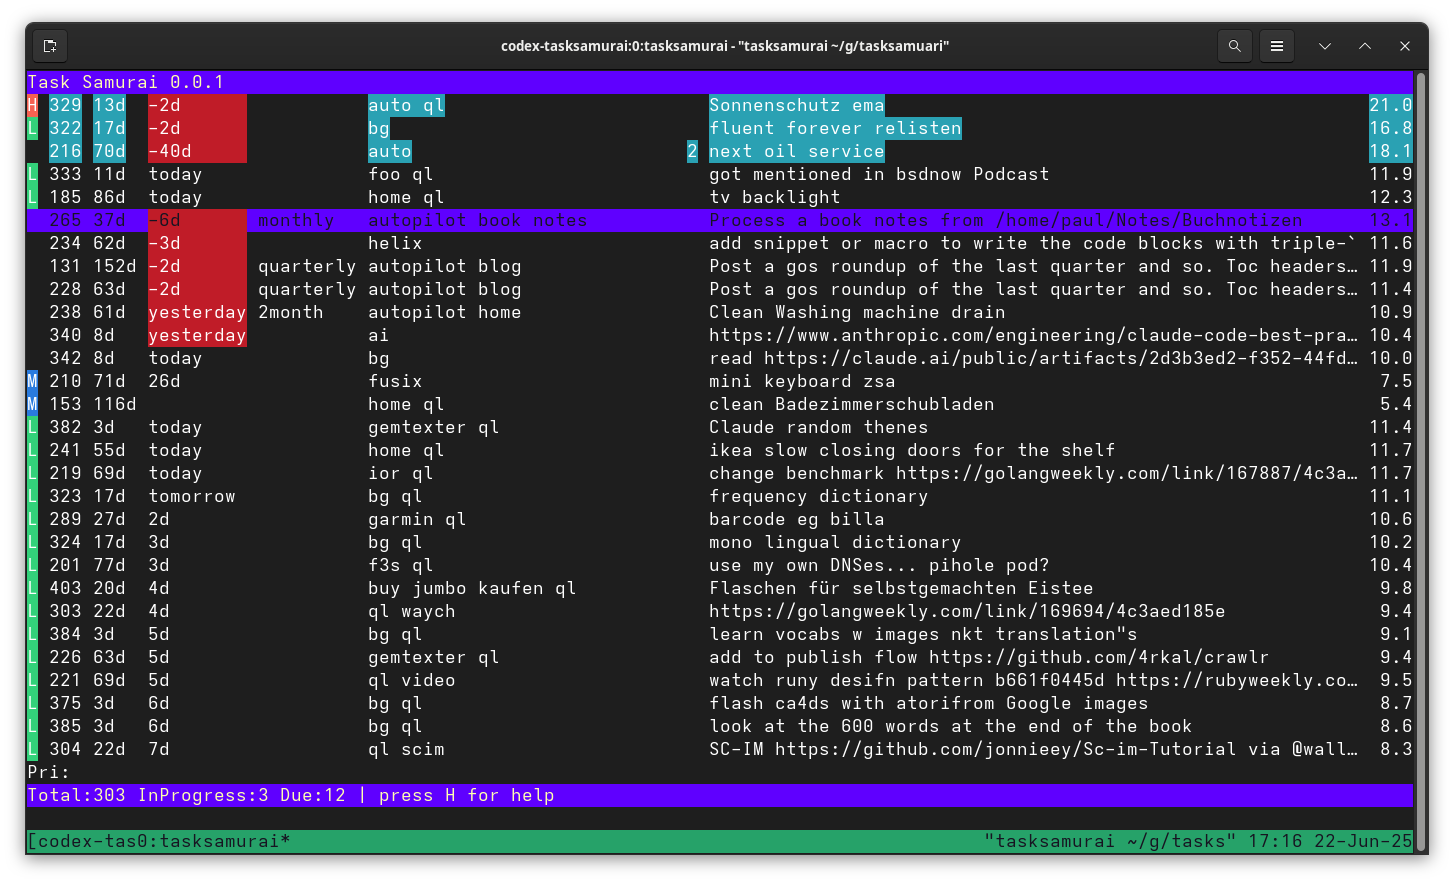
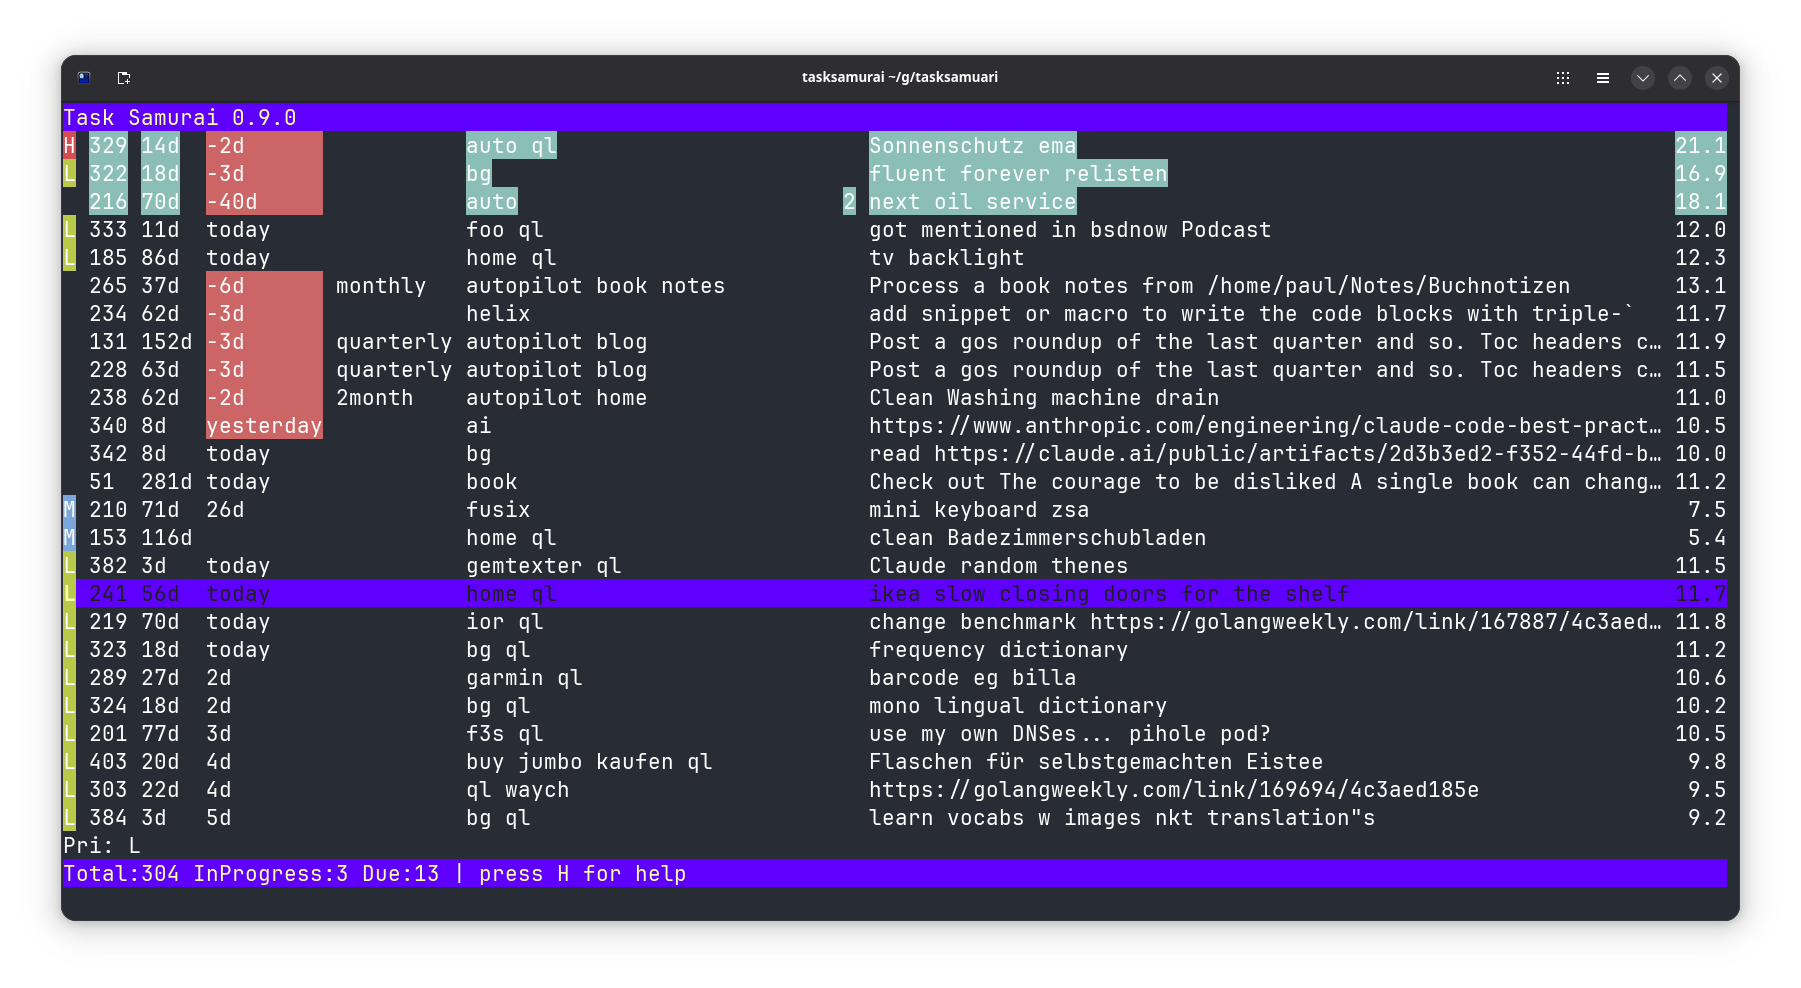
Update content for html

diff --git a/about/resources.html b/about/resources.html
@@ -50,52 +50,52 @@
 <span>In random order:</span><br />
 <br />
 <ul>
-<li>The Practise of System and Network Administration; Thomas A. Limoncelli, Christina J. Hogan, Strata R. Chalup; Addison-Wesley Professional Pro Git; Scott Chacon, Ben Straub; Apress</li>
-<li>The Docker Book; James Turnbull; Kindle</li>
-<li>21st Century C: C Tips from the New School; Ben Klemens; O&#39;Reilly</li>
-<li>Concurrency in Go; Katherine Cox-Buday; O&#39;Reilly</li>
-<li>The Kubernetes Book; Nigel Poulton; Unabridged Audiobook</li>
-<li>Raku Recipes; J.J. Merelo; Apress</li>
-<li>Programming Ruby 3.3 (5th Edition); Noel Rappin, with Dave Thomas; The Pragmatic Bookshelf</li>
-<li>DNS and BIND; Cricket Liu; O&#39;Reilly</li>
-<li>Raku Fundamentals; Moritz Lenz; Apress</li>
-<li>Terraform Cookbook; Mikael Krief; Packt Publishing</li>
-<li>Learn You Some Erlang for Great Good; Fred Herbert; No Starch Press</li>
-<li>The Go Programming Language; Alan A. A. Donovan; Addison-Wesley Professional</li>
-<li>Effective Java; Joshua Bloch; Addison-Wesley Professional</li>
-<li>DevOps And Site Reliability Engineering Handbook; Stephen Fleming; Audible</li>
+<li>Go Brain Teasers - Exercise Your Mind; Miki Tebeka; The Pragmatic Programmers</li>
 <li>Clusterbau mit Linux-HA; Michael Schwartzkopff; O&#39;Reilly</li>
 <li>Think Raku (aka Think Perl 6); Laurent Rosenfeld, Allen B. Downey; O&#39;Reilly</li>
-<li>Funktionale Programmierung; Peter Pepper; Springer</li>
-<li>Java ist auch eine Insel; Christian Ullenboom; </li>
-<li>Amazon Web Services in Action; Michael Wittig and Andreas Wittig; Manning Publications</li>
 <li>Higher Order Perl; Mark Dominus; Morgan Kaufmann</li>
-<li>100 Go Mistakes and How to Avoid Them; Teiva Harsanyi; Manning Publications</li>
-<li>Tmux 2: Productive Mouse-free Development; Brain P. Hogan; The Pragmatic Programmers </li>
-<li>Modern Perl; Chromatic ; Onyx Neon Press</li>
-<li>Object-Oriented Programming with ANSI-C; Axel-Tobias Schreiner</li>
 <li>Leanring eBPF; Liz Rice; O&#39;Reilly</li>
-<li>Programming Perl aka "The Camel Book"; Tom Christiansen, brian d foy, Larry Wall &amp; Jon Orwant; O&#39;Reilly</li>
-<li>Hands-on Infrastructure Monitoring with Prometheus; Joel Bastos, Pedro Araujo; Packt </li>
-<li>Site Reliability Engineering; How Google runs production systems; O&#39;Reilly</li>
-<li>The Pragmatic Programmer; David Thomas; Addison-Wesley</li>
-<li>The KCNA (Kubernetes and Cloud Native Associate) Book; Nigel Poulton</li>
-<li>Data Science at the Command Line; Jeroen Janssens; O&#39;Reilly</li>
-<li>Pro Puppet; James Turnbull, Jeffrey McCune; Apress</li>
-<li>Developing Games in Java; David Brackeen and others...; New Riders</li>
-<li>Distributed Systems: Principles and Paradigms; Andrew S. Tanenbaum; Pearson</li>
-<li>Polished Ruby Programming; Jeremy Evans; Packt Publishing</li>
-<li>C++ Programming Language; Bjarne Stroustrup;</li>
-<li>Kubernetes Cookbook; Sameer Naik, Sébastien Goasguen, Jonathan Michaux; O&#39;Reilly</li>
-<li>Go Brain Teasers - Exercise Your Mind; Miki Tebeka; The Pragmatic Programmers</li>
-<li>Effective awk programming; Arnold Robbins; O&#39;Reilly</li>
+<li>21st Century C: C Tips from the New School; Ben Klemens; O&#39;Reilly</li>
 <li>97 things every SRE should know; Emil Stolarsky, Jaime Woo; O&#39;Reilly</li>
-<li>Learn You a Haskell for Great Good!; Miran Lipovaca; No Starch Press</li>
+<li>The Practise of System and Network Administration; Thomas A. Limoncelli, Christina J. Hogan, Strata R. Chalup; Addison-Wesley Professional Pro Git; Scott Chacon, Ben Straub; Apress</li>
+<li>The Pragmatic Programmer; David Thomas; Addison-Wesley</li>
+<li>Distributed Systems: Principles and Paradigms; Andrew S. Tanenbaum; Pearson</li>
+<li>Amazon Web Services in Action; Michael Wittig and Andreas Wittig; Manning Publications</li>
+<li>Tmux 2: Productive Mouse-free Development; Brain P. Hogan; The Pragmatic Programmers </li>
+<li>Data Science at the Command Line; Jeroen Janssens; O&#39;Reilly</li>
+<li>Raku Recipes; J.J. Merelo; Apress</li>
 <li>The DevOps Handbook; Gene Kim, Jez Humble, Patrick Debois, John Willis; Audible</li>
-<li>Systems Performance Tuning; Gian-Paolo D. Musumeci and others...; O&#39;Reilly</li>
-<li>Systemprogrammierung in Go; Frank Müller; dpunkt</li>
+<li>Effective awk programming; Arnold Robbins; O&#39;Reilly</li>
+<li>Site Reliability Engineering; How Google runs production systems; O&#39;Reilly</li>
+<li>The KCNA (Kubernetes and Cloud Native Associate) Book; Nigel Poulton</li>
 <li>Ultimate Go Notebook; Bill Kennedy</li>
+<li>Funktionale Programmierung; Peter Pepper; Springer</li>
+<li>Raku Fundamentals; Moritz Lenz; Apress</li>
+<li>Modern Perl; Chromatic ; Onyx Neon Press</li>
+<li>Pro Puppet; James Turnbull, Jeffrey McCune; Apress</li>
+<li>Learn You Some Erlang for Great Good; Fred Herbert; No Starch Press</li>
+<li>Developing Games in Java; David Brackeen and others...; New Riders</li>
+<li>Systems Performance Tuning; Gian-Paolo D. Musumeci and others...; O&#39;Reilly</li>
+<li>The Docker Book; James Turnbull; Kindle</li>
+<li>Learn You a Haskell for Great Good!; Miran Lipovaca; No Starch Press</li>
+<li>Programming Ruby 3.3 (5th Edition); Noel Rappin, with Dave Thomas; The Pragmatic Bookshelf</li>
+<li>Polished Ruby Programming; Jeremy Evans; Packt Publishing</li>
+<li>Effective Java; Joshua Bloch; Addison-Wesley Professional</li>
+<li>Concurrency in Go; Katherine Cox-Buday; O&#39;Reilly</li>
+<li>100 Go Mistakes and How to Avoid Them; Teiva Harsanyi; Manning Publications</li>
+<li>DNS and BIND; Cricket Liu; O&#39;Reilly</li>
+<li>Hands-on Infrastructure Monitoring with Prometheus; Joel Bastos, Pedro Araujo; Packt </li>
+<li>Java ist auch eine Insel; Christian Ullenboom; </li>
+<li>DevOps And Site Reliability Engineering Handbook; Stephen Fleming; Audible</li>
+<li>The Go Programming Language; Alan A. A. Donovan; Addison-Wesley Professional</li>
+<li>Systemprogrammierung in Go; Frank Müller; dpunkt</li>
 <li>Perl New Features; Joshua McAdams, brian d foy; Perl School</li>
+<li>Programming Perl aka "The Camel Book"; Tom Christiansen, brian d foy, Larry Wall &amp; Jon Orwant; O&#39;Reilly</li>
+<li>Object-Oriented Programming with ANSI-C; Axel-Tobias Schreiner</li>
+<li>The Kubernetes Book; Nigel Poulton; Unabridged Audiobook</li>
+<li>C++ Programming Language; Bjarne Stroustrup;</li>
+<li>Terraform Cookbook; Mikael Krief; Packt Publishing</li>
+<li>Kubernetes Cookbook; Sameer Naik, Sébastien Goasguen, Jonathan Michaux; O&#39;Reilly</li>
 </ul><br />
 <h2 style='display: inline' id='technical-references'>Technical references</h2><br />
 <br />
@@ -103,54 +103,54 @@
 <br />
 <ul>
 <li>Go: Design Patterns for Real-World Projects; Mat Ryer; Packt</li>
+<li>Implementing Service Level Objectives; Alex Hidalgo; O&#39;Reilly</li>
 <li>Groovy Kurz &amp; Gut; Joerg Staudemeier; O&#39;Reilly</li>
-<li>BPF Performance Tools - Linux System and Application Observability, Brendan Gregg; Addison Wesley</li>
+<li>Relayd and Httpd Mastery; Michael W Lucas</li>
 <li>Algorithms; Robert Sedgewick, Kevin Wayne; Addison Wesley</li>
 <li>Understanding the Linux Kernel; Daniel P. Bovet, Marco Cesati; O&#39;Reilly</li>
-<li>Implementing Service Level Objectives; Alex Hidalgo; O&#39;Reilly</li>
 <li>The Linux Programming Interface; Michael Kerrisk; No Starch Press </li>
-<li>Relayd and Httpd Mastery; Michael W Lucas</li>
+<li>BPF Performance Tools - Linux System and Application Observability, Brendan Gregg; Addison Wesley</li>
 </ul><br />
 <h2 style='display: inline' id='self-development-and-soft-skills-books'>Self-development and soft-skills books</h2><br />
 <br />
 <span>In random order:</span><br />
 <br />
 <ul>
-<li>The Good Enough Job; Simone Stolzoff; Ebury Edge</li>
+<li>Digital Minimalism; Cal Newport; Portofolio Penguin</li>
+<li>Staff Engineer: Leadership beyond the management track; Will Larson; Audiobook</li>
+<li>Ultralearning; Scott Young; Thorsons</li>
+<li>The Joy of Missing Out; Christina Crook; New Society Publishers</li>
 <li>The Phoenix Project - A Novel About IT, DevOps, and Helping your Business Win; Gene Kim and Kevin Behr; Trade Select</li>
-<li>Slow Productivity; Cal Newport; Penguin Random House</li>
-<li>The Obstacle Is The Way; Ryan Holiday; Profile Books Ltd</li>
-<li>The Bullet Journal Method; Ryder Carroll; Fourth Estate</li>
-<li>Buddah and Einstein walk into a Bar; Guy Joseph Ale, Claire Bloom; Blackstone Publishing</li>
-<li>Atomic Habits; James Clear; Random House Business</li>
-<li>The Power of Now; Eckhard Tolle; Yellow Kite</li>
-<li>The Complete Software Developer&#39;s Career Guide; John Sonmez; Unabridged Audiobook</li>
-<li>The Daily Stoic; Ryan Holiday, Stephen Hanselman; Profile Books</li>
-<li>Deep Work; Cal Newport; Piatkus</li>
-<li>Eat That Frog; Brian Tracy</li>
-<li>Soft Skills; John Sommez; Manning Publications</li>
-<li>So Good They Can&#39;t Ignore You; Cal Newport; Business Plus</li>
-<li>Psycho-Cybernetics; Maxwell Maltz; Perigee Books</li>
-<li>Time Management for System Administrators; Thomas A. Limoncelli; O&#39;Reilly</li>
-<li>Never Split the Difference; Chris Voss, Tahl Raz; Random House Business</li>
 <li>Coders at Work - Reflections on the craft of programming, Peter Seibel and Mitchell Dorian et al., Audiobook</li>
-<li>Consciousness: A Very Short Introduction; Susan Blackmore; Oxford Uiversity Press</li>
-<li>Ultralearning; Anna Laurent; Self-published via Amazon</li>
-<li>The 7 Habits Of Highly Effective People; Stephen R. Covey; Simon &amp; Schuster UK</li>
+<li>So Good They Can&#39;t Ignore You; Cal Newport; Business Plus</li>
+<li>101 Essays that change the way you think; Brianna Wiest; Audiobook</li>
+<li>Search Inside Yourself - The Unexpected path to Achieving Success, Happiness (and World Peace); Chade-Meng Tan, Daniel Goleman, Jon Kabat-Zinn; HarperOne</li>
+<li>The Complete Software Developer&#39;s Career Guide; John Sonmez; Unabridged Audiobook</li>
+<li>Eat That Frog; Brian Tracy</li>
+<li>The Good Enough Job; Simone Stolzoff; Ebury Edge</li>
+<li>Deep Work; Cal Newport; Piatkus</li>
+<li>The Obstacle Is The Way; Ryan Holiday; Profile Books Ltd</li>
 <li>Who Moved My Cheese?; Dr. Spencer Johnson; Vermilion</li>
 <li>The Off Switch; Mark Cropley; Virgin Books (RE-READ 1ST TIME)</li>
-<li>The Joy of Missing Out; Christina Crook; New Society Publishers</li>
-<li>Eat That Frog!; Brian Tracy; Hodder Paperbacks</li>
-<li>Getting Things Done; David Allen</li>
-<li>Meditation for Mortals, Oliver Burkeman, Audiobook</li>
-<li>Staff Engineer: Leadership beyond the management track; Will Larson; Audiobook</li>
+<li>Consciousness: A Very Short Introduction; Susan Blackmore; Oxford Uiversity Press</li>
 <li>Influence without Authority; A. Cohen, D. Bradford; Wiley</li>
-<li>101 Essays that change the way you think; Brianna Wiest; Audiobook</li>
-<li>Solve for Happy; Mo Gawdat (RE-READ 1ST TIME)</li>
+<li>Meditation for Mortals, Oliver Burkeman, Audiobook</li>
+<li>Time Management for System Administrators; Thomas A. Limoncelli; O&#39;Reilly</li>
 <li>Stop starting, start finishing; Arne Roock; Lean-Kanban University  </li>
-<li>Digital Minimalism; Cal Newport; Portofolio Penguin</li>
-<li>Ultralearning; Scott Young; Thorsons</li>
-<li>Search Inside Yourself - The Unexpected path to Achieving Success, Happiness (and World Peace); Chade-Meng Tan, Daniel Goleman, Jon Kabat-Zinn; HarperOne</li>
+<li>Eat That Frog!; Brian Tracy; Hodder Paperbacks</li>
+<li>The 7 Habits Of Highly Effective People; Stephen R. Covey; Simon &amp; Schuster UK</li>
+<li>The Daily Stoic; Ryan Holiday, Stephen Hanselman; Profile Books</li>
+<li>Never Split the Difference; Chris Voss, Tahl Raz; Random House Business</li>
+<li>Getting Things Done; David Allen</li>
+<li>Solve for Happy; Mo Gawdat (RE-READ 1ST TIME)</li>
+<li>The Power of Now; Eckhard Tolle; Yellow Kite</li>
+<li>Atomic Habits; James Clear; Random House Business</li>
+<li>Ultralearning; Anna Laurent; Self-published via Amazon</li>
+<li>The Bullet Journal Method; Ryder Carroll; Fourth Estate</li>
+<li>Psycho-Cybernetics; Maxwell Maltz; Perigee Books</li>
+<li>Soft Skills; John Sommez; Manning Publications</li>
+<li>Slow Productivity; Cal Newport; Penguin Random House</li>
+<li>Buddah and Einstein walk into a Bar; Guy Joseph Ale, Claire Bloom; Blackstone Publishing</li>
 </ul><br />
 <a class='textlink' href='../notes/index.html'>Here are notes of mine for some of the books</a><br />
 <br />
@@ -159,31 +159,31 @@
 <span>Some of these were in-person with exams; others were online learning lectures only. In random order:</span><br />
 <br />
 <ul>
-<li>The Well-Grounded Rubyist Video Edition; David. A. Black; O&#39;Reilly Online</li>
 <li>Developing IaC with Terraform (with Live Lessons); O&#39;Reilly Online</li>
 <li>Algorithms Video Lectures; Robert Sedgewick; O&#39;Reilly Online</li>
-<li>Red Hat Certified System Administrator; Course + certification (Although I had the option, I decided not to take the next course as it is more effective to self learn what I need)</li>
-<li>MySQL Deep Dive Workshop; 2-day on-site training</li>
-<li>F5 Loadbalancers Training; 2-day on-site training; F5, Inc. </li>
 <li>Protocol buffers; O&#39;Reilly Online</li>
-<li>AWS Immersion Day; Amazon; 1-day interactive online training </li>
-<li>Functional programming lecture; Remote University of Hagen</li>
-<li>Apache Tomcat Best Practises; 3-day on-site training</li>
-<li>Linux Security and Isolation APIs Training; Michael Kerrisk; 3-day on-site training</li>
-<li>The Ultimate Kubernetes Bootcamp; School of Devops; O&#39;Reilly Online</li>
-<li>Scripting Vim; Damian Conway; O&#39;Reilly Online</li>
+<li>F5 Loadbalancers Training; 2-day on-site training; F5, Inc. </li>
 <li>Structure and Interpretation of Computer Programs; Harold Abelson and more...; </li>
-<li>Cloud Operations on AWS - Learn how to configure, deploy, maintain, and troubleshoot your AWS environments; 3-day online live training with labs; Amazon</li>
+<li>MySQL Deep Dive Workshop; 2-day on-site training</li>
+<li>Red Hat Certified System Administrator; Course + certification (Although I had the option, I decided not to take the next course as it is more effective to self learn what I need)</li>
+<li>AWS Immersion Day; Amazon; 1-day interactive online training </li>
+<li>The Well-Grounded Rubyist Video Edition; David. A. Black; O&#39;Reilly Online</li>
+<li>Apache Tomcat Best Practises; 3-day on-site training</li>
+<li>Functional programming lecture; Remote University of Hagen</li>
 <li>Ultimate Go Programming; Bill Kennedy; O&#39;Reilly Online</li>
+<li>Linux Security and Isolation APIs Training; Michael Kerrisk; 3-day on-site training</li>
+<li>Scripting Vim; Damian Conway; O&#39;Reilly Online</li>
+<li>The Ultimate Kubernetes Bootcamp; School of Devops; O&#39;Reilly Online</li>
+<li>Cloud Operations on AWS - Learn how to configure, deploy, maintain, and troubleshoot your AWS environments; 3-day online live training with labs; Amazon</li>
 </ul><br />
 <h2 style='display: inline' id='technical-guides'>Technical guides</h2><br />
 <br />
 <span>These are not whole books, but guides (smaller or larger) which I found very useful. in random order:</span><br />
 <br />
 <ul>
+<li>How CPUs work at https://cpu.land</li>
 <li>Raku Guide at https://raku.guide  </li>
 <li>Advanced Bash-Scripting Guide </li>
-<li>How CPUs work at https://cpu.land</li>
 </ul><br />
 <h2 style='display: inline' id='podcasts'>Podcasts</h2><br />
 <br />
@@ -192,58 +192,58 @@
 <span>In random order:</span><br />
 <br />
 <ul>
-<li>Modern Mentor</li>
-<li>Hidden Brain</li>
-<li>Backend Banter</li>
-<li>Dev Interrupted</li>
-<li>Maintainable</li>
-<li>The Changelog Podcast(s)</li>
-<li>The Pragmatic Engineer Podcast</li>
-<li>Fallthrough [Golang]</li>
-<li>The ProdCast (Google SRE Podcast)</li>
-<li>Fork Around And Find Out</li>
 <li>Deep Questions with Cal Newport</li>
 <li>Cup o&#39; Go [Golang]</li>
+<li>Fork Around And Find Out</li>
 <li>BSD Now [BSD]</li>
+<li>The Changelog Podcast(s)</li>
+<li>Hidden Brain</li>
+<li>Dev Interrupted</li>
+<li>Maintainable</li>
+<li>The ProdCast (Google SRE Podcast)</li>
+<li>Backend Banter</li>
+<li>Fallthrough [Golang]</li>
+<li>Modern Mentor</li>
+<li>The Pragmatic Engineer Podcast</li>
 </ul><br />
 <h3 style='display: inline' id='podcasts-i-liked'>Podcasts I liked</h3><br />
 <br />
 <span>I liked them but am not listening to them anymore. The podcasts have either "finished" (no more episodes) or I stopped listening to them due to time constraints or a shift in my interests.</span><br />
 <br />
 <ul>
-<li>FLOSS weekly</li>
 <li>Modern Mentor</li>
-<li>Go Time (predecessor of fallthrough)</li>
 <li>Java Pub House</li>
-<li>Ship It (predecessor of Fork Around And Find Out)</li>
+<li>Go Time (predecessor of fallthrough)</li>
 <li>CRE: Chaosradio Express [german]</li>
+<li>FLOSS weekly</li>
+<li>Ship It (predecessor of Fork Around And Find Out)</li>
 </ul><br />
 <h2 style='display: inline' id='newsletters-i-like'>Newsletters I like</h2><br />
 <br />
 <span>This is a mix of tech and non-tech newsletters I am subscribed to. In random order:</span><br />
 <br />
 <ul>
-<li>VK Newsletter</li>
+<li>Andreas Brandhorst Newsletter (Sci-Fi author)</li>
+<li>Changelog News</li>
 <li>byteSizeGo</li>
 <li>The Imperfectionist</li>
-<li>Applied Go Weekly Newsletter</li>
-<li>Changelog News</li>
-<li>Monospace Mentor</li>
-<li>Register Spill</li>
-<li>Andreas Brandhorst Newsletter (Sci-Fi author)</li>
-<li>Ruby Weekly</li>
 <li>Golang Weekly</li>
+<li>Ruby Weekly</li>
+<li>Applied Go Weekly Newsletter</li>
 <li>The Valuable Dev</li>
+<li>Monospace Mentor</li>
+<li>VK Newsletter</li>
 <li>The Pragmatic Engineer</li>
+<li>Register Spill</li>
 </ul><br />
 <h2 style='display: inline' id='magazines-i-liked'>Magazines I like(d)</h2><br />
 <br />
 <span>This is a mix of tech I like(d). I may not be a current subscriber, but now and then, I buy an issue. In random order:</span><br />
 <br />
 <ul>
+<li>Linux Magazine</li>
 <li>Linux User</li>
 <li>LWN (online only)</li>
-<li>Linux Magazine</li>
 <li>freeX (not published anymore)</li>
 </ul><br />
 <h1 style='display: inline' id='formal-education'>Formal education</h1><br />

diff --git a/uptime-stats.html b/uptime-stats.html
@@ -13,7 +13,7 @@
 </p>
 <h1 style='display: inline' id='my-machine-uptime-stats'>My machine uptime stats</h1><br />
 <br />
-<span class='quote'>This site was last updated at 2025-06-22T19:12:10+03:00</span><br />
+<span class='quote'>This site was last updated at 2025-06-22T19:24:30+03:00</span><br />
 <br />
 <span>The following stats were collected via <span class='inlinecode'>uptimed</span> on all of my personal computers over many years and the output was generated by <span class='inlinecode'>guprecords</span>, the global uptime records stats analyser of mine.</span><br />
 <br />

diff --git a/index.html b/index.html
@@ -13,7 +13,7 @@
 </p>
 <h1 style='display: inline' id='hello'>Hello!</h1><br />
 <br />
-<span class='quote'>This site was generated at 2025-06-22T19:12:10+03:00 by <span class='inlinecode'>Gemtexter</span></span><br />
+<span class='quote'>This site was generated at 2025-06-22T19:24:30+03:00 by <span class='inlinecode'>Gemtexter</span></span><br />
 <br />
 <span>Welcome to the ...</span><br />
 <br />
